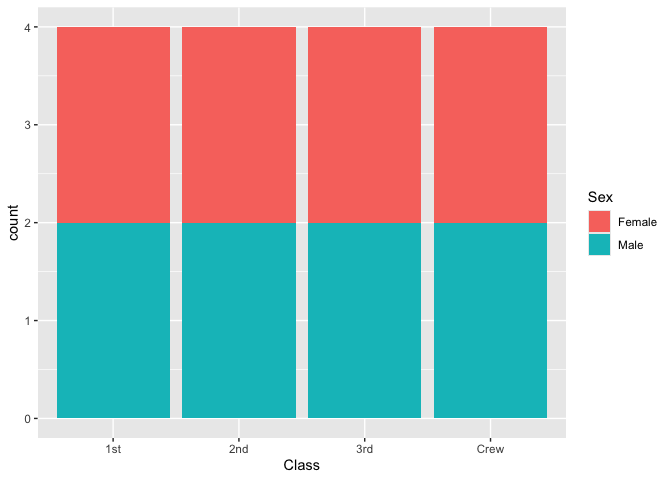
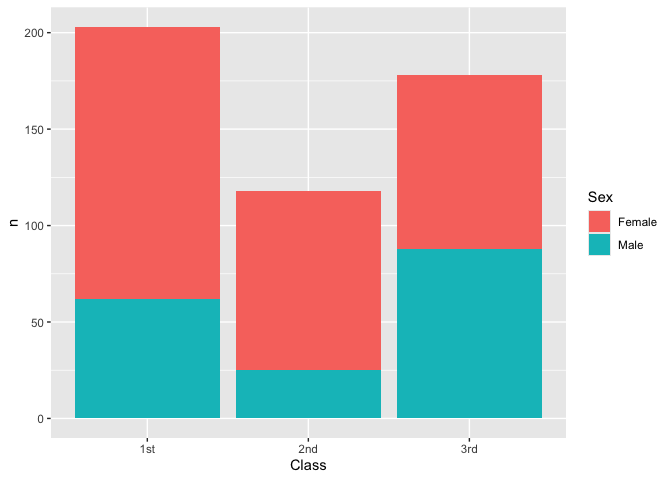
Challenge 1 Revision 1

diff --git a/data-science-curriculum-build-2/challenges/c01-titanic-assignment.md b/data-science-curriculum-build-2/challenges/c01-titanic-assignment.md
@@ -41,12 +41,6 @@ the groups.
 *Reading*: (Optional) [Wikipedia
 article](https://en.wikipedia.org/wiki/RMS_Titanic) on the RMS Titanic.
 
-**PLEASE READ**: This assignment is incomplete as I have been sick with
-flu and strep for the past few days. I am getting unexpected values for
-the number of people who survived from each class (please see the counts
-displayed below). I would appreciate any feedback and help I can get on
-this assignment.
-
 <!-- include-rubric -->
 
 # Grading Rubric
@@ -160,54 +154,47 @@ df_titanic %>% summarize(total = sum(n))
 ## TASK: Visualize counts against `Class` and `Sex`
 
 
-df_titanic %>%
-  filter(Survived == "Yes") %>% 
-  ggplot(aes(x = Class, fill = Sex)) +
-  geom_bar()
+df_q3 <- df_titanic %>%
+  group_by(Sex, Survived, Class) %>% 
+  filter(Class != "Crew", Survived != "No")
+df_q3
+```
+
+    ## # A tibble: 12 × 5
+    ## # Groups:   Sex, Survived, Class [6]
+    ##    Class Sex    Age   Survived     n
+    ##    <chr> <chr>  <chr> <chr>    <dbl>
+    ##  1 1st   Male   Child Yes          5
+    ##  2 2nd   Male   Child Yes         11
+    ##  3 3rd   Male   Child Yes         13
+    ##  4 1st   Female Child Yes          1
+    ##  5 2nd   Female Child Yes         13
+    ##  6 3rd   Female Child Yes         14
+    ##  7 1st   Male   Adult Yes         57
+    ##  8 2nd   Male   Adult Yes         14
+    ##  9 3rd   Male   Adult Yes         75
+    ## 10 1st   Female Adult Yes        140
+    ## 11 2nd   Female Adult Yes         80
+    ## 12 3rd   Female Adult Yes         76
+
+``` r
+ggplot(df_q3, aes(x = Class, y = n, fill = Sex)) +
+  geom_col()
 ```
 
 ![](c01-titanic-assignment_files/figure-gfm/q3-task-1.png)<!-- -->
-
-``` r
-str(df_titanic)
-```
-
-    ## tibble [32 × 5] (S3: tbl_df/tbl/data.frame)
-    ##  $ Class   : chr [1:32] "1st" "2nd" "3rd" "Crew" ...
-    ##  $ Sex     : chr [1:32] "Male" "Male" "Male" "Male" ...
-    ##  $ Age     : chr [1:32] "Child" "Child" "Child" "Child" ...
-    ##  $ Survived: chr [1:32] "No" "No" "No" "No" ...
-    ##  $ n       : num [1:32] 0 0 35 0 0 0 17 0 118 154 ...
-
-``` r
-df_titanic %>%
-  filter(Survived == "Yes") %>%
-  group_by(Class, Sex) %>%
-  summarise(SurvivorCount = n())
-```
-
-    ## `summarise()` has grouped output by 'Class'. You can override using the
-    ## `.groups` argument.
-
-    ## # A tibble: 8 × 3
-    ## # Groups:   Class [4]
-    ##   Class Sex    SurvivorCount
-    ##   <chr> <chr>          <int>
-    ## 1 1st   Female             2
-    ## 2 1st   Male               2
-    ## 3 2nd   Female             2
-    ## 4 2nd   Male               2
-    ## 5 3rd   Female             2
-    ## 6 3rd   Male               2
-    ## 7 Crew  Female             2
-    ## 8 Crew  Male               2
 
 **Observations**:
 
 - Write your observations here
 
-The number of people who survived is way off, and I am not sure what’s
-causing it.
+- The most survivors from the Titanic came from First class, while the
+  least number of survivors came from 2nd
+
+- More females survived than males in all three classes
+
+- Women and children were required to board lifeboats first, possibly
+  leading to less male survivors
 
 # Deeper Look
 
@@ -253,23 +240,105 @@ df_prop
 
 ### **q4** Replicate your visual from q3, but display `Prop` in place of `n`. Document your observations, and note any new/different observations you make in comparison with q3. Is there anything *fishy* in your plot?
 
+``` r
+df_q4 <- df_titanic %>%
+  group_by(Sex, Survived, Class) %>% 
+  filter(Class != "Crew", Survived != "No") %>% 
+  mutate(
+    Total = sum(n),
+    Prop = n / Total
+  ) %>%
+  ungroup()
+  
+df_q4
+```
+
+    ## # A tibble: 12 × 7
+    ##    Class Sex    Age   Survived     n Total    Prop
+    ##    <chr> <chr>  <chr> <chr>    <dbl> <dbl>   <dbl>
+    ##  1 1st   Male   Child Yes          5    62 0.0806 
+    ##  2 2nd   Male   Child Yes         11    25 0.44   
+    ##  3 3rd   Male   Child Yes         13    88 0.148  
+    ##  4 1st   Female Child Yes          1   141 0.00709
+    ##  5 2nd   Female Child Yes         13    93 0.140  
+    ##  6 3rd   Female Child Yes         14    90 0.156  
+    ##  7 1st   Male   Adult Yes         57    62 0.919  
+    ##  8 2nd   Male   Adult Yes         14    25 0.56   
+    ##  9 3rd   Male   Adult Yes         75    88 0.852  
+    ## 10 1st   Female Adult Yes        140   141 0.993  
+    ## 11 2nd   Female Adult Yes         80    93 0.860  
+    ## 12 3rd   Female Adult Yes         76    90 0.844
+
+``` r
+ggplot(df_q4, aes(x = Class, y = Prop, fill = Sex)) +
+  geom_col()
+```
+
+![](c01-titanic-assignment_files/figure-gfm/q4-task-1.png)<!-- -->
+
 **Observations**:
 
 - Write your observations here.
 - Is there anything *fishy* going on in your plot?
-  - (Your response here)
+  - All the bar plots go to 2, not properly showing the proportions we
+    are trying to analyze
 
 ### **q5** Create a plot showing the group-proportion of occupants who *did* survive, along with aesthetics for `Class`, `Sex`, *and* `Age`. Document your observations below.
 
 *Hint*: Don’t forget that you can use `facet_grid` to help consider
 additional variables!
 
+``` r
+df_q5 <- df_titanic %>%
+  filter(Class != "Crew", Survived != "No") %>%  
+  group_by(Sex, Survived, Class) %>%  
+  mutate(
+    Total = sum(n),  
+    Prop = n / Total  
+  ) %>% 
+  ungroup()
+
+df_q5
+```
+
+    ## # A tibble: 12 × 7
+    ##    Class Sex    Age   Survived     n Total    Prop
+    ##    <chr> <chr>  <chr> <chr>    <dbl> <dbl>   <dbl>
+    ##  1 1st   Male   Child Yes          5    62 0.0806 
+    ##  2 2nd   Male   Child Yes         11    25 0.44   
+    ##  3 3rd   Male   Child Yes         13    88 0.148  
+    ##  4 1st   Female Child Yes          1   141 0.00709
+    ##  5 2nd   Female Child Yes         13    93 0.140  
+    ##  6 3rd   Female Child Yes         14    90 0.156  
+    ##  7 1st   Male   Adult Yes         57    62 0.919  
+    ##  8 2nd   Male   Adult Yes         14    25 0.56   
+    ##  9 3rd   Male   Adult Yes         75    88 0.852  
+    ## 10 1st   Female Adult Yes        140   141 0.993  
+    ## 11 2nd   Female Adult Yes         80    93 0.860  
+    ## 12 3rd   Female Adult Yes         76    90 0.844
+
+``` r
+ggplot(df_q5, aes(x = Class, y = Prop, fill = Sex)) +
+  geom_col(position = "dodge") +
+  facet_wrap(~Age)
+```
+
+![](c01-titanic-assignment_files/figure-gfm/q5-task-1.png)<!-- -->
+
 **Observations**:
 
 - (Write your observations here.)
 - If you saw something *fishy* in q4 above, use your new plot to explain
   the fishy-ness.
-  - (Your response here)
+  - I decided to filter before grouping to ensure I was only analyzing
+    the data about survivors
+  - I used dodge in my geom_col() to show the proportions of male and
+    female survivors side-by-side for easier readability
+  - We can now see that there were more female survivors than male
+    survivors in all classes except 3rd, where there was relatively
+    small difference
+  - We can see that male children had a higher chance of survival than
+    female children
 
 # Notes
 
